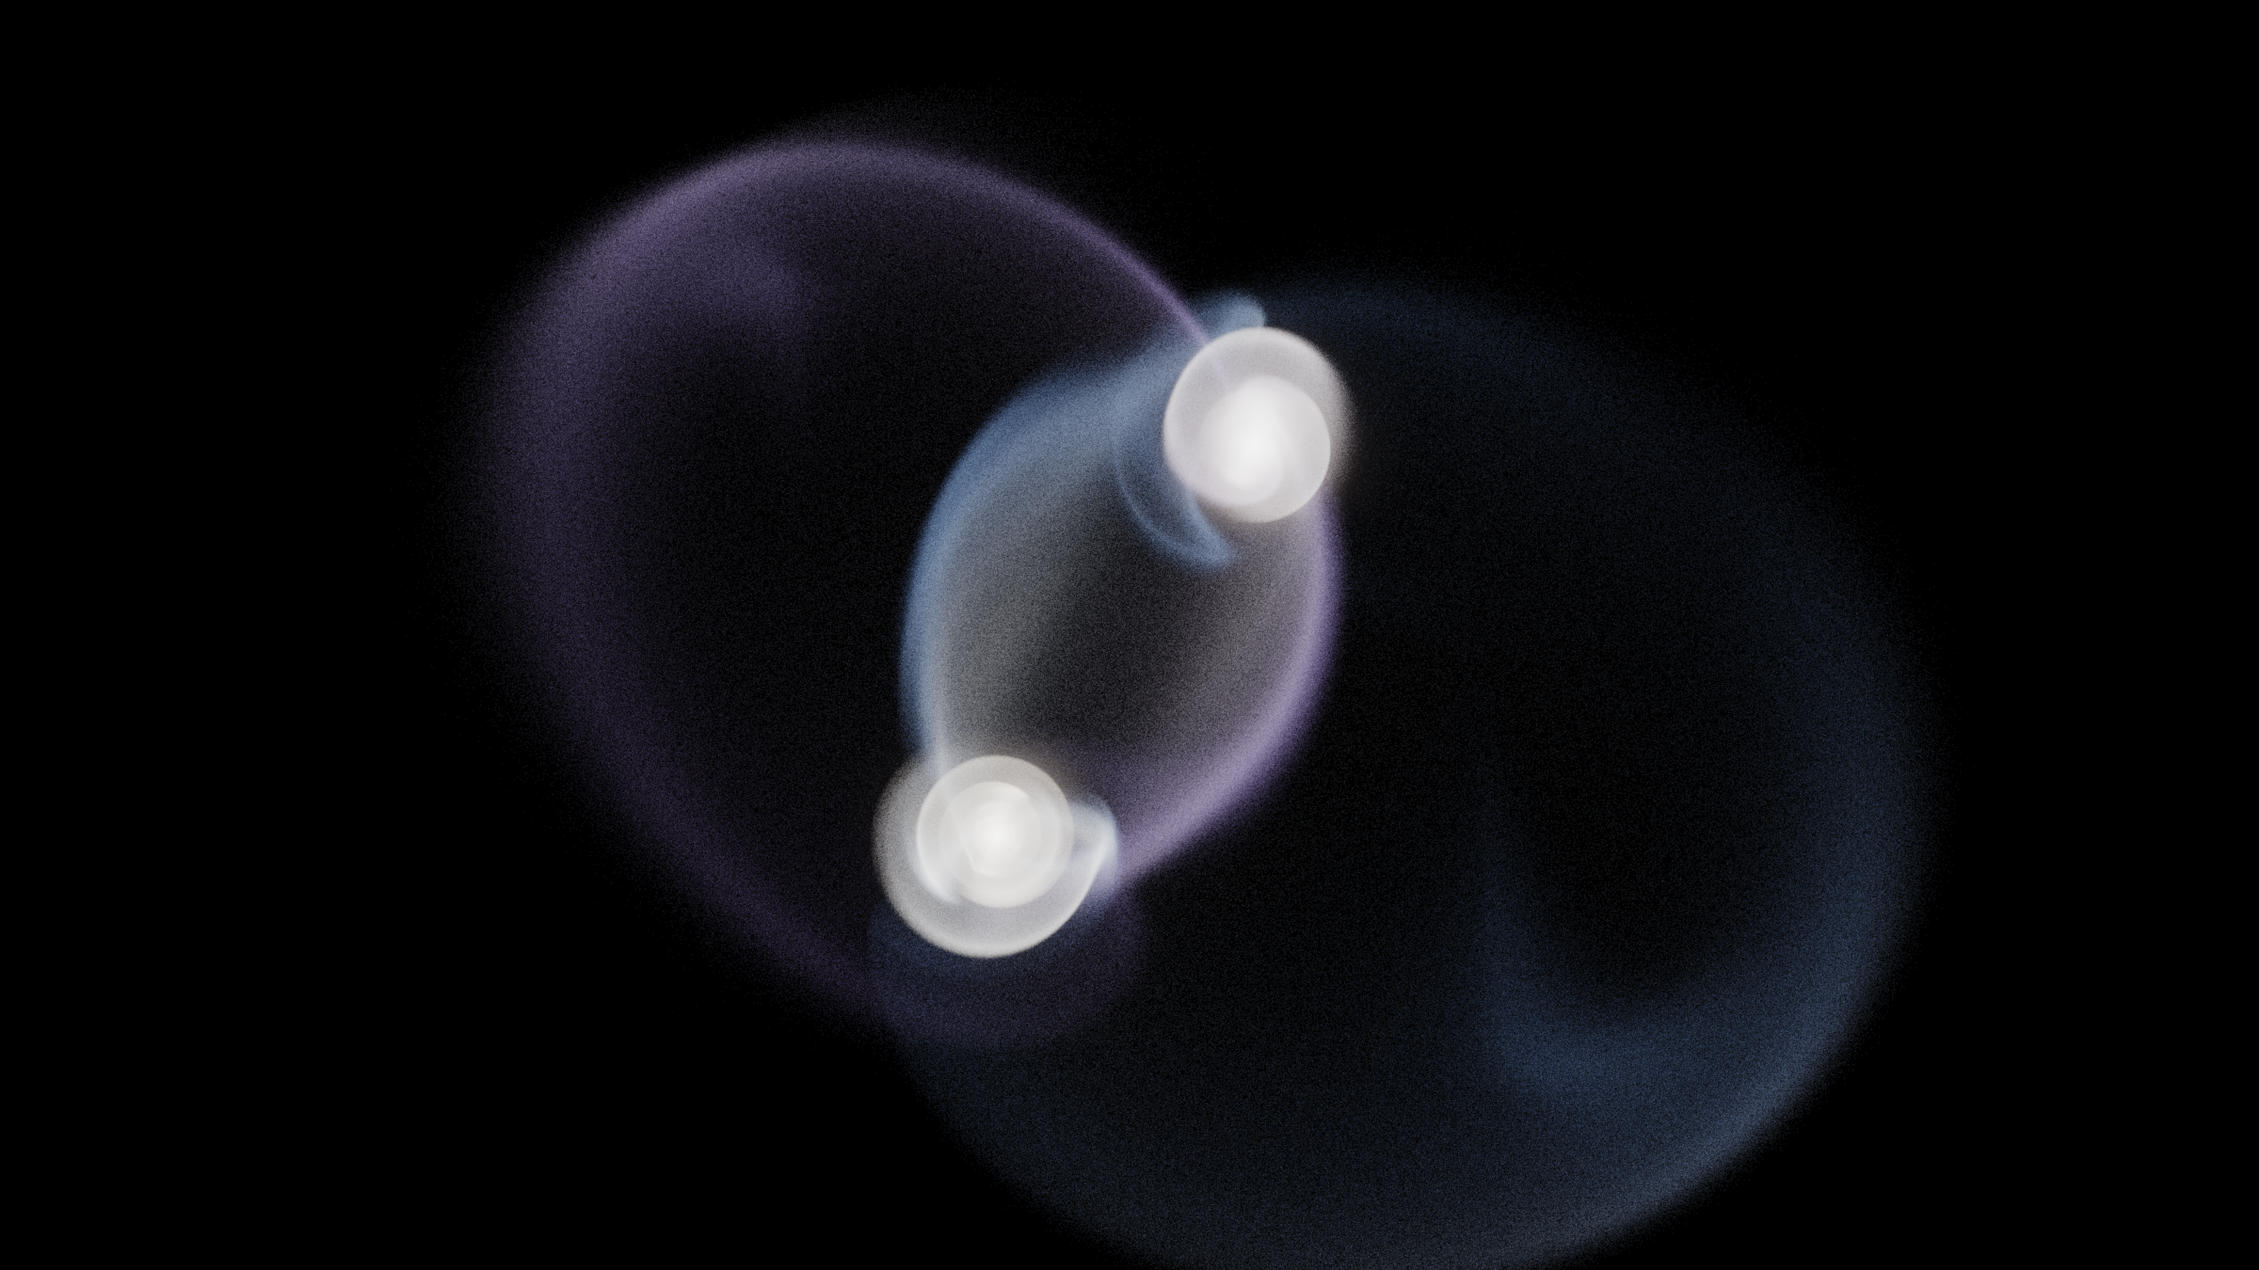
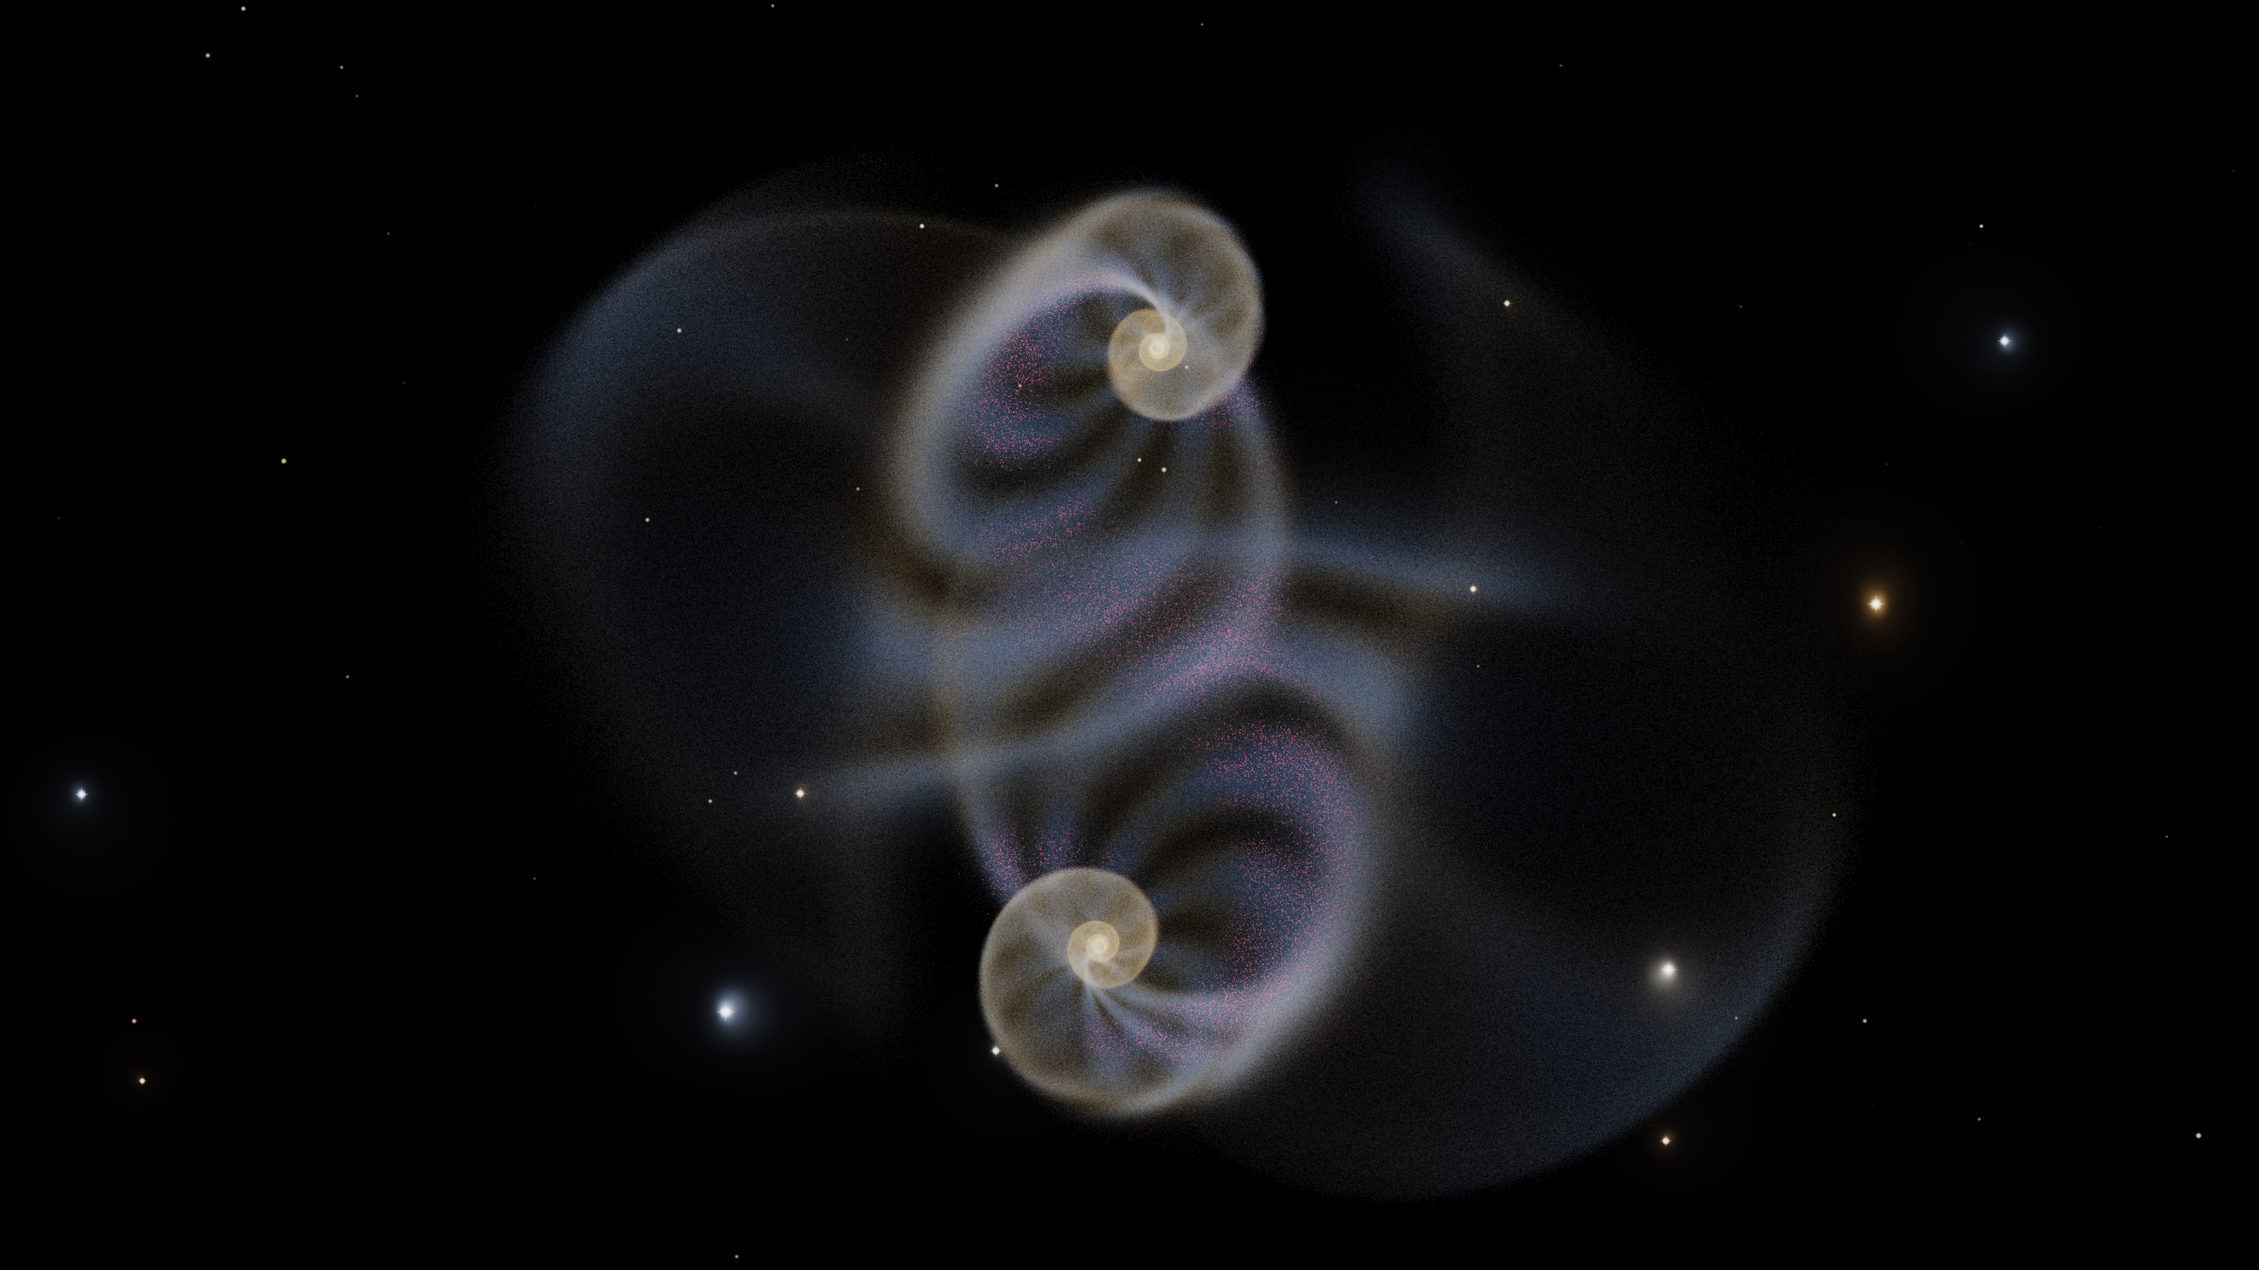
feat: spiral arms as a render-time density wave

Changed region(s): [[0.1875, 0.0933, 0.875, 1.0], [0.875, 0.2489, 0.9062, 0.28], [0.0312, 0.6222, 0.0625, 0.6533]]

diff --git a/Sources/SillageRender/Shaders.swift b/Sources/SillageRender/Shaders.swift
@@ -59,27 +59,71 @@ enum Shaders {
         // HII regions glow in Halpha with a little [OIII], which reads pink shading to magenta.
         constant float3 hiiColor = float3(1.00, 0.32, 0.50);
 
+        struct DiskFrame {
+            float4 center;
+            float4 axisU;
+            float4 axisV;
+            float4 pattern;
+        };
+
+        // Where a particle sits relative to the spiral density wave, 0 between the arms and
+        // 1 on a ridge. Evaluated at the current position, so the arms stay sharp instead of
+        // winding up with the differentially rotating disk.
+        // Returns the wave amplitude and how much of the disk the pattern still covers, so
+        // debris thrown far out by the encounter does not light up as star formation.
+        static float2 armWave(float3 position, DiskFrame frame) {
+            float strength = frame.axisV.w;
+            if (strength <= 0.0) { return float2(0.5, 0.0); }
+            float3 rel = position - frame.center.xyz;
+            float u = dot(rel, frame.axisU.xyz);
+            float v = dot(rel, frame.axisV.xyz);
+            float radius = sqrt(u * u + v * v);
+            float scale = max(frame.center.w, 1e-3);
+            float extent = radius / scale;
+            float envelope = smoothstep(0.55, 1.5, extent)
+                           * (1.0 - smoothstep(4.0, 6.5, extent));
+            float wound = atan2(v, u)
+                        - frame.pattern.x * log(max(radius, 1e-3) / scale)
+                        - frame.pattern.y;
+            float ridge = 0.5 + 0.5 * cos(frame.axisU.w * wound);
+            return float2(mix(0.5, ridge, strength * envelope), envelope);
+        }
+
         vertex SplatOut splatVertex(uint vid [[vertex_id]],
                                     device const float3 *positions [[buffer(0)]],
                                     device const float *population [[buffer(1)]],
                                     device const float *luminosity [[buffer(2)]],
                                     device const uint *component [[buffer(3)]],
-                                    constant SplatUniforms &u [[buffer(4)]]) {
+                                    constant SplatUniforms &u [[buffer(4)]],
+                                    device const uint *galaxy [[buffer(5)]],
+                                    constant DiskFrame *frames [[buffer(6)]]) {
             SplatOut out;
-            out.position = u.viewProjection * float4(positions[vid], 1.0);
+            float3 position = positions[vid];
+            out.position = u.viewProjection * float4(position, 1.0);
             out.spikes = 0.0h;
             uint kind = component[vid];
             float weight = luminosity[vid];
+            float2 pattern = armWave(position, frames[galaxy[vid]]);
+            float wave = pattern.x;
 
             if (kind == 2u) {
                 // Dust neither emits nor follows exposure; it removes light further down.
+                float lane = 1.0 + 1.9 * pow(wave, 1.6) * pattern.y;
                 out.pointSize = u.pointSize * 1.4;
                 out.color = half3(0.0h);
-                out.opticalDepth = half(weight * u.dustStrength);
+                out.opticalDepth = half(weight * u.dustStrength * lane);
+            } else if (kind == 1u) {
+                // Star formation happens where the wave is now, not where it once was.
+                out.pointSize = u.pointSize * 1.15;
+                float lit = smoothstep(0.45, 0.95, wave) * pattern.y;
+                out.color = half3(hiiColor * (u.brightness * weight * lit * 4.0));
+                out.opticalDepth = 0.0h;
             } else {
-                float3 tint = kind == 1u ? hiiColor : populationColor(population[vid]);
-                out.pointSize = u.pointSize * (kind == 1u ? 1.15 : 1.0);
-                out.color = half3(tint * (u.brightness * weight));
+                // Arms are bluer and a little brighter than the disk between them.
+                float youth = saturate(population[vid] + 0.55 * (wave - 0.5));
+                out.pointSize = u.pointSize;
+                out.color = half3(
+                    populationColor(youth) * (u.brightness * weight * (0.78 + 0.48 * wave)));
                 out.opticalDepth = 0.0h;
             }
             return out;
@@ -101,7 +145,7 @@ enum Shaders {
             SplatOut out;
             out.position = u.viewProjection * float4(star.direction.xyz, 1.0);
             out.pointSize = u.starSize * mix(1.6, 9.0, magnitude * magnitude);
-            out.color = half3(star.color.rgb * (magnitude * magnitude * magnitude * 9.0));
+            out.color = half3(star.color.rgb * (magnitude * magnitude * magnitude * 2.4));
             out.opticalDepth = 0.0h;
             out.spikes = half(star.color.a);
             return out;

diff --git a/Sources/SillageRender/Renderer.swift b/Sources/SillageRender/Renderer.swift
@@ -64,7 +64,7 @@ public struct RenderSettings: Sendable {
         exposure: Float = 1.0,
         brightness: Float = 0.055,
         dustStrength: Float = 0.055,
-        starCount: Int = 11000,
+        starCount: Int = 14000,
         starSize: Float = 1.15,
         bloomThreshold: Float = 0.55,
         bloomSoftKnee: Float = 0.6,
@@ -134,6 +134,9 @@ public final class Renderer {
     private let populationBuffer: MTLBuffer
     private let luminosityBuffer: MTLBuffer
     private let componentBuffer: MTLBuffer
+    private let galaxyBuffer: MTLBuffer
+    private var frameBuffer: MTLBuffer?
+    private var frameCount = 1
     private let starBuffer: MTLBuffer?
     private let particleCount: Int
 
@@ -145,6 +148,9 @@ public final class Renderer {
 
     /// `externalPositions` lets a GPU solver own the position buffer, so particle state
     /// never crosses the bus between the integrator and the rasteriser.
+    /// Strength multiplier on the density wave, 0 to disable it.
+    public var armPersistence: Float = 1
+
     public init(
         device: MTLDevice? = nil,
         particles: ParticleSystem,
@@ -264,10 +270,14 @@ public final class Renderer {
                 length: count * 4, options: .storageModeShared),
             let componentBuffer = device.makeBuffer(
                 bytes: particles.component.isEmpty ? [UInt32(0)] : particles.component,
+                length: count * 4, options: .storageModeShared),
+            let galaxyBuffer = device.makeBuffer(
+                bytes: particles.galaxyIndex.isEmpty ? [UInt32(0)] : particles.galaxyIndex,
                 length: count * 4, options: .storageModeShared)
         else {
             throw RenderError.textureAllocation
         }
+        self.galaxyBuffer = galaxyBuffer
         self.positionBuffer = positionBuffer
         self.populationBuffer = populationBuffer
         self.luminosityBuffer = luminosityBuffer
@@ -290,7 +300,7 @@ public final class Renderer {
 
         for _ in 0..<count {
             let direction = DiskSampler.randomDirection(&generator)
-            let magnitude = pow(generator.uniform(), 3.2)
+            let magnitude = pow(generator.uniform(), 4.6)
             let warmth = generator.uniform()
             let color =
                 warmth < 0.62
@@ -308,6 +318,20 @@ public final class Renderer {
         return device.makeBuffer(
             bytes: stars, length: stars.count * MemoryLayout<BackgroundStar>.stride,
             options: .storageModeShared)
+    }
+
+    /// Updates the spiral pattern for each galaxy. Called once per frame with the current
+    /// galaxy centres and elapsed time, so the arms turn as a density wave.
+    public func setDiskFrames(_ frames: [DiskFrame]) {
+        guard !frames.isEmpty else { return }
+        let length = frames.count * MemoryLayout<DiskFrame>.stride
+        if frameBuffer == nil || frameCount != frames.count {
+            frameBuffer = device.makeBuffer(length: length, options: .storageModeShared)
+            frameCount = frames.count
+        }
+        frames.withUnsafeBytes { source in
+            frameBuffer?.contents().copyMemory(from: source.baseAddress!, byteCount: source.count)
+        }
     }
 
     /// Unified memory means this is a plain memcpy into a buffer the GPU already sees.
@@ -371,6 +395,8 @@ public final class Renderer {
             encoder.setVertexBuffer(populationBuffer, offset: 0, index: 1)
             encoder.setVertexBuffer(luminosityBuffer, offset: 0, index: 2)
             encoder.setVertexBuffer(componentBuffer, offset: 0, index: 3)
+            encoder.setVertexBuffer(galaxyBuffer, offset: 0, index: 5)
+            encoder.setVertexBuffer(frameBuffer, offset: 0, index: 6)
             encoder.drawPrimitives(type: .point, vertexStart: 0, vertexCount: particleCount)
             encoder.endEncoding()
         }

diff --git a/Sources/SillageRender/DiskFrame.swift b/Sources/SillageRender/DiskFrame.swift
@@ -1,0 +1,45 @@
+import SillageCore
+import simd
+
+/// A galaxy's disk plane and spiral pattern, evaluated at render time.
+///
+/// Arms baked into the initial conditions wind up within about one orbit, because the disk
+/// rotates differentially. Real spiral arms are a density wave: the pattern turns at its own
+/// slower speed while stars pass through it, which is why a galaxy keeps two clean arms for
+/// far longer than a material pattern could. Modulating brightness, colour and extinction by
+/// the pattern at the particle's current position reproduces that.
+public struct DiskFrame {
+    public var center: SIMD4<Float>
+    public var axisU: SIMD4<Float>
+    public var axisV: SIMD4<Float>
+    public var pattern: SIMD4<Float>
+
+    /// Builds one frame per galaxy from the scene, the current centres and the elapsed time.
+    public static func make(
+        scene: SceneConfig, centers: [SIMD3<Float>], time: Float, strength: Float
+    ) -> [DiskFrame] {
+        scene.galaxies.enumerated().map { index, galaxy in
+            let orientation = galaxy.orientation
+            let center = index < centers.count ? centers[index] : galaxy.position
+            let armed = galaxy.kind == .spiral ? min(max(galaxy.armStrength * strength, 0), 1) : 0
+
+            // A pattern speed of roughly half the material rotation at two scale lengths is
+            // typical, and is what keeps the arms from either freezing or winding up.
+            let reference = max(galaxy.diskScaleLength * 2, 0.5)
+            let patternSpeed =
+                galaxy.potential.circularSpeed(atRadius: reference) / reference * 0.5
+                * galaxy.spin.sign
+
+            return DiskFrame(
+                center: SIMD4<Float>(center.x, center.y, center.z, galaxy.diskScaleLength),
+                axisU: SIMD4<Float>(
+                    orientation.columns.0.x, orientation.columns.0.y, orientation.columns.0.z,
+                    Float(max(galaxy.armCount, 1))),
+                axisV: SIMD4<Float>(
+                    orientation.columns.1.x, orientation.columns.1.y, orientation.columns.1.z,
+                    armed),
+                pattern: SIMD4<Float>(
+                    1 / max(tan(galaxy.armPitch), 1e-3), patternSpeed * time, 0, 0))
+        }
+    }
+}

diff --git a/Sources/SillageApp/SimulationModel.swift b/Sources/SillageApp/SimulationModel.swift
@@ -167,6 +167,10 @@ final class SimulationModel: ObservableObject {
         guard let renderer, let solver else { return nil }
         solver.step(count: steps)
         elapsedMyr = Double(solver.time) * Physics.megayearsPerTimeUnit
+        renderer.setDiskFrames(
+            DiskFrame.make(
+                scene: scene, centers: solver.centers, time: solver.time,
+                strength: renderer.armPersistence))
         return renderer.render(camera: camera.camera)
     }
 
@@ -177,6 +181,10 @@ final class SimulationModel: ObservableObject {
             solver.step(count: stepsPerFrame)
             elapsedMyr = Double(solver.time) * Physics.megayearsPerTimeUnit
         }
+        renderer.setDiskFrames(
+            DiskFrame.make(
+                scene: scene, centers: solver.centers, time: solver.time,
+                strength: renderer.armPersistence))
         renderer.present(camera: camera.camera, drawable: drawable)
         frameMilliseconds = (CACurrentMediaTime() - start) * 1000
         framesDrawn += 1

diff --git a/Sources/sillage-render/main.swift b/Sources/sillage-render/main.swift
@@ -94,6 +94,10 @@ for frame in 0..<frames {
         frozenRadius = framingRadius(solver.particles.positions, percentile: percentile) / zoom
     }
 
+    renderer.setDiskFrames(
+        DiskFrame.make(
+            scene: scene, centers: solver.centers, time: solver.time,
+            strength: Float(number("arms", 1))))
     let camera = Camera.framing(radius: frozenRadius, elevation: elevation)
     let renderStart = Date()
     let pixels = renderer.render(camera: camera)

diff --git a/Sources/SillageCore/GalaxyConfig.swift b/Sources/SillageCore/GalaxyConfig.swift
@@ -54,7 +54,7 @@ public struct GalaxyConfig: Codable, Sendable, Equatable {
         velocityDispersion: Float = 0.05,
         armCount: Int = 2,
         armStrength: Float = 0.82,
-        armPitch: Float = 0.36,
+        armPitch: Float = 0.46,
         dustFraction: Float = 0.26,
         starFormingFraction: Float = 0.005,
         bulgeExtent: Float = 0.35,

diff --git a/README.md b/README.md
@@ -61,9 +61,8 @@ run starts, so the setup screen opens instantly.
 Spin matters more than it looks. Prograde coplanar passages raise the long symmetric tails;
 retrograde ones stay dull.
 
-Spiral arms are an initial pattern, not a self-sustaining density wave. Without self-gravity
-they wind up under differential rotation within a few hundred million years, which is the
-classic winding problem and is correct for this model. Arms that persist need level 2.
+Dust, star-forming knots and the stellar population gradient are set per galaxy: dust share,
+star-forming share, bulge extent, arm count, arm contrast and pitch.
 
 ## Offline rendering
 
@@ -75,18 +74,42 @@ Add `--frames N` for an image sequence to encode into video. Rendering offline b
 screen recording: any resolution, no capture compression, no dropped frames.
 
 Useful flags: `--preset merger|flyby|disk`, `--solver gpu|cpu`, `--seed`, `--radius`,
-`--elevation`, `--brightness`, `--stretch`, `--saturation`, `--bloom`, `--supersample`.
+`--elevation`, `--brightness`, `--stretch`, `--saturation`, `--bloom`, `--dust`, `--stars`,
+`--star-size`, `--arms`, `--supersample`.
 
 ## Rendering
 
-Particles are splatted additively into a supersampled `rgba16Float` target, a Kawase
-dual-filter bloom pyramid is built from it, and the sum goes through a logarithmic stretch
-before ACES tone mapping. The stretch is what astronomical imaging uses: the core of a
-galaxy is three orders of magnitude brighter than its tidal debris, and a filmic curve alone
-turns the cores into featureless discs.
+Particles are splatted into two additive targets: emitted light in `rgba16Float`, and the
+optical depth of intervening dust in `r16Float`. Resolving from the supersampled buffers
+applies extinction on the way down, more strongly in blue than in red, which is what makes a
+dust lane read brown rather than grey. A Kawase dual-filter bloom pyramid is built from the
+result, and the sum goes through a logarithmic stretch before ACES tone mapping. The stretch
+is what astronomical imaging uses: a galaxy core is three orders of magnitude brighter than
+its tidal debris, and a filmic curve alone flattens the cores into featureless discs.
 
-Brightness is expressed per million particles, so a scene looks the same at 500 000
-particles as at 20 million.
+There is no depth sorting, so the dust column includes grains behind the stars as well as in
+front. Roughly half lies in front, so the depth is halved and clamped; without the clamp an
+encounter that stacks both galaxies along the line of sight goes black.
+
+Every particle carries a stellar population, a luminosity and a component. Old K and G giants
+are warm, young O and B associations are blue, and HII regions glow pink in Halpha. Dust
+absorbs instead of emitting. Foreground field stars are drawn from a steep magnitude law with
+a tight core and diffraction spikes on the brightest.
+
+### Spiral arms as a density wave
+
+Arms baked into the initial conditions wind up within about one orbit, because a disk rotates
+differentially. Real arms are a density wave that turns at its own slower speed while stars
+pass through it, which is why a galaxy keeps two clean arms far longer than any material
+pattern could. The renderer evaluates that pattern at each particle's current position and
+modulates colour, brightness and extinction with it, so the arms stay sharp and star
+formation happens where the wave is now rather than where it once was.
+
+### Calibration
+
+Brightness and dust opacity are expressed per million particles and per unit sky area, so a
+scene looks the same at 500 000 particles as at 20 million, and the exposure does not have to
+be retuned every time the camera zooms.
 
 ## Units
 
